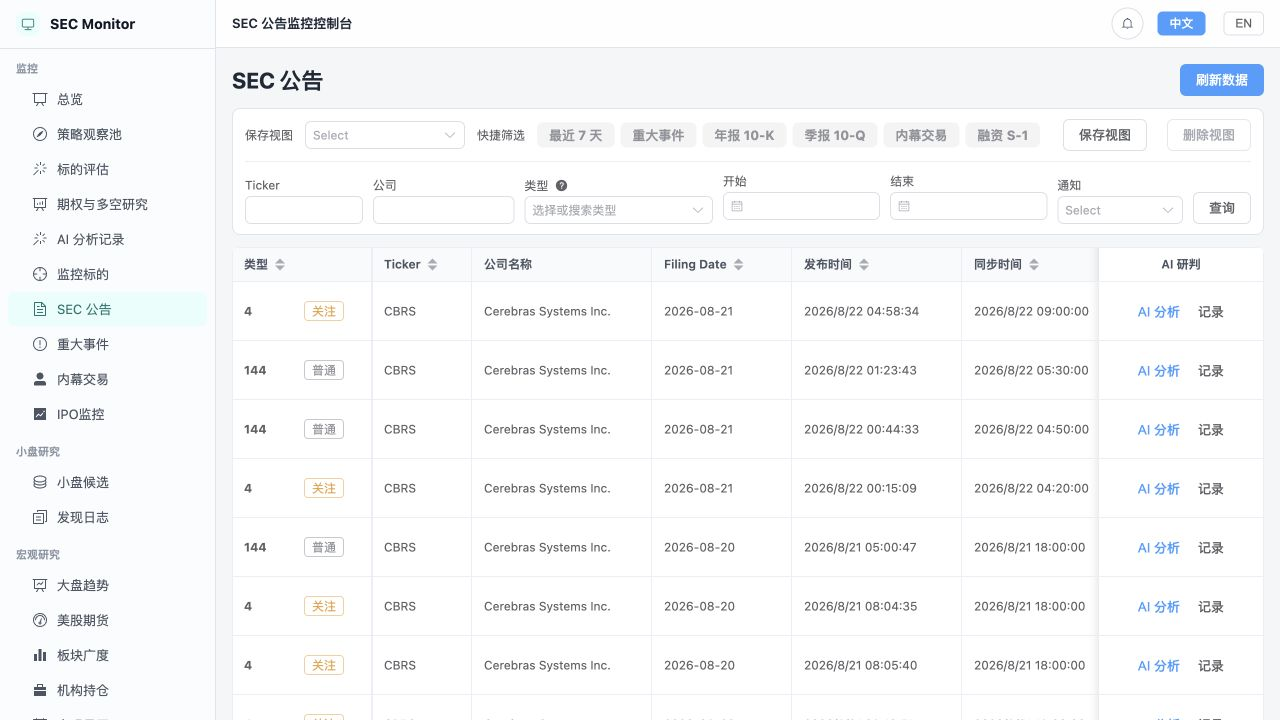
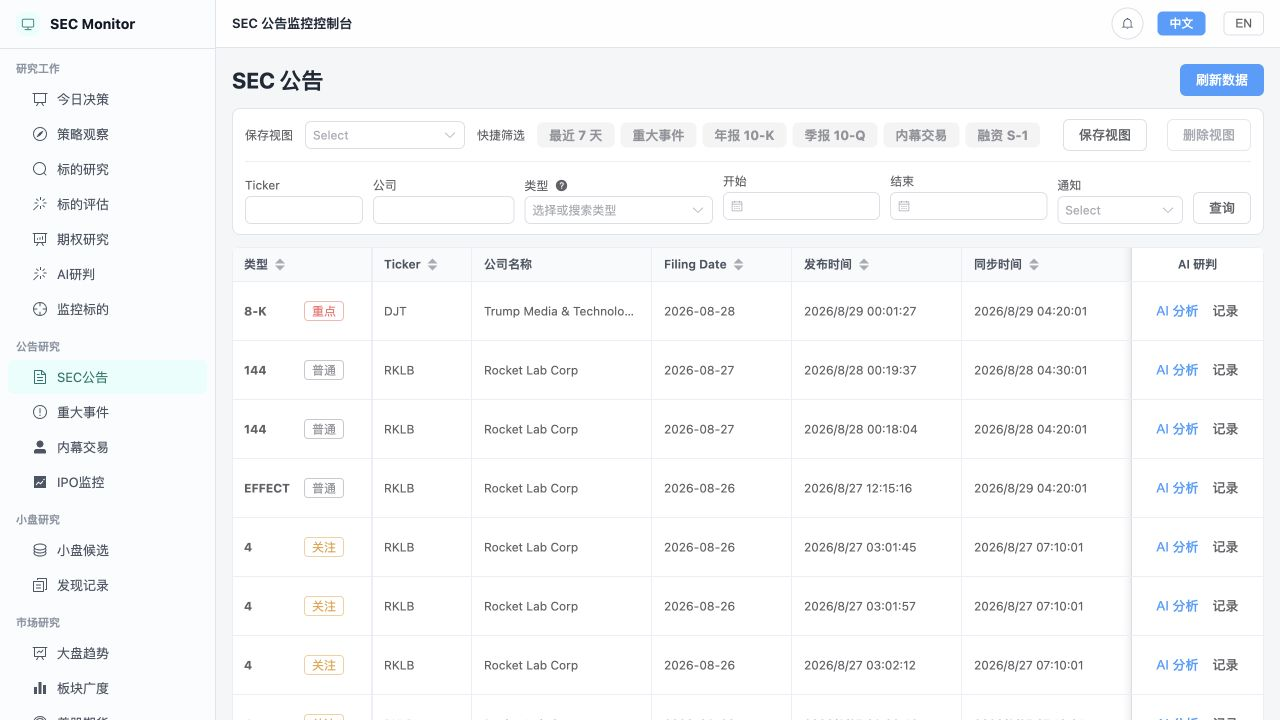
docs: refresh README and project screenshots

diff --git a/README.md b/README.md
@@ -40,11 +40,11 @@
 
 以下截图来自 Docker 本地环境中的真实数据，用于展示界面与研究流程；其中的证券、分数和状态不构成投资建议。
 
-### 小盘股候选：从数据健康到研究结论
+### 小盘候选：从数据健康到研究结论
 
 候选同步、筛选口径、证据状态、资本风险、技术信号与研究结论集中在同一页面；范围与规则可调整，历史价格缺口可按标的重试。
 
-![小盘股候选页面](docs/screenshots/small-cap-candidates.jpg)
+![小盘候选页面](docs/screenshots/small-cap-candidates.jpg)
 
 ### 策略观察池：把个股放回市场环境
 
@@ -54,18 +54,24 @@
 
 <table>
   <tr>
-    <td width="50%"><strong>SEC 公告检索与 AI 研判入口</strong></td>
-    <td width="50%"><strong>系统健康、备份与同步状态</strong></td>
+    <td width="50%"><strong>标的研究：跨模块证据汇总</strong></td>
+    <td width="50%"><strong>SEC 公告：检索与 AI 研判入口</strong></td>
   </tr>
   <tr>
+    <td><img src="docs/screenshots/ticker-workspace.jpg" alt="标的研究页面"></td>
     <td><img src="docs/screenshots/sec-filings.jpg" alt="SEC 公告页面"></td>
-    <td><img src="docs/screenshots/system-health.jpg" alt="系统健康页面"></td>
   </tr>
   <tr>
+    <td>在一个入口查看本地基本面、行情、SEC、内幕交易、机构持仓和历次 AI 研判，不因打开页面触发外部请求。</td>
     <td>按表单类型、日期、公司和通知状态检索；从本地记录进入原始公告或手动 AI 分析。</td>
-    <td>集中显示数据源、数据库、同步、通知和备份状态，让降级与待处理问题可见。</td>
   </tr>
 </table>
+
+### 系统健康：让降级与待处理问题可见
+
+集中显示数据源、数据库、同步、调度、通知和备份状态。页面直接暴露连续失败、覆盖不足与降级原因，方便从对应任务继续处理。
+
+![系统健康页面](docs/screenshots/system-health.jpg)
 
 ## 能做什么
 
@@ -77,6 +83,18 @@
 - **研究补充**：保存 Longbridge 分析师共识、估值、期权研究、机构持仓与公司资料；详情页仅读取本地快照，不会因浏览页面额外调用第三方接口。
 - **AI 研判**：支持多个 OpenAI 兼容提供商（含 DeepSeek）、可配置提示词模板、手动异步执行、结果/提示词/耗时审计和站内完成通知。不会自动调用第三方 AI。
 - **运营与通知**：统一管理站内消息、Telegram、去重、重试、死信、任务日志、系统健康、SQLite 备份和恢复演练。
+
+## 功能导航
+
+左侧菜单按研究路径而不是技术模块分组，名称保持简短，常用入口优先：
+
+| 分组 | 页面 | 用途 |
+| --- | --- | --- |
+| 研究工作 | 今日决策、策略观察、标的研究、标的评估、期权研究、AI研判、监控标的 | 从当日状态进入个股研究、复核与跟踪 |
+| 公告研究 | SEC公告、重大事件、内幕交易、IPO监控 | 查看 SEC 事实、资本事件与发行人生命周期 |
+| 小盘研究 | 小盘候选、发现记录 | 管理候选范围、证据补齐、评分与同步恢复 |
+| 市场研究 | 大盘趋势、板块广度、美股期货、机构持仓、宏观日历 | 补充市场、行业、机构与宏观背景 |
+| 运行管理 | 执行记录、任务调度、系统健康、通知记录、审计日志、系统配置 | 配置数据源与 Telegram，处理任务、告警、备份和审计 |
 
 ## 数据与边界
 
@@ -129,7 +147,8 @@ make docker-up
 1. 配置明确的 SEC User-Agent（例如 `SEC Monitor your-email@example.com`）。
 2. 配置 `CONFIG_ENCRYPTION_KEY`，用于加密 Telegram、Longbridge、价格源和 AI 密钥。
 3. 按需填写 Longbridge / Tiingo / Twelve Data / AI Provider 凭据。
-4. 添加监控标的，并在“调度任务”检查启用的任务与运行时间。
+4. 在“系统配置 → 通知配置”设置 Telegram 通道与事件边界。
+5. 添加监控标的，并在“任务调度”检查启用的任务与运行时间。
 
 `.env` 示例：
 
@@ -175,8 +194,8 @@ cd web && npm run build
 
 1. 先添加少量监控标的，完成一次 SEC 同步并核对结果。
 2. 配置行情源后运行小盘研究或标的评估；缺少的价格/基本面证据会保留为待补齐状态。
-3. 在“调度任务”按北京时间配置自动刷新；每项任务独立运行，不会因为某项失败阻塞其他数据源。
-4. 在“系统健康”“同步历史”“通知日志”处理失败、重试与备份容量告警；避免频繁手动重跑额度敏感的行情或 AI 任务。
+3. 在“任务调度”按北京时间配置自动刷新；每项任务独立运行，不会因为某项失败阻塞其他数据源。
+4. 在“系统健康”“执行记录”“通知记录”处理失败、重试与备份容量告警；避免频繁手动重跑额度敏感的行情或 AI 任务。
 5. AI 仅作为研究辅助：先在详情页选择模型和模板手动执行，再结合原始 SEC 文件与本地证据判断。
 
 ## 运行与数据存储

diff --git a/README.en.md b/README.en.md
@@ -29,6 +29,43 @@ investment advice and does not place trades.
 > This project contains AI-assisted code. Review security, compliance and data
 > quality before using it with real capital or in a production environment.
 
+## Interface preview
+
+The screenshots below come from the current Docker build and local snapshots.
+Displayed securities, scores and states are examples, not investment advice.
+
+### Small-cap candidates and strategy context
+
+The candidate workspace keeps screening rules, evidence quality, capital risk,
+technical signals and research conclusions together. The strategy pool places
+those candidates back into index, sector and macro context.
+
+![Small-cap candidates](docs/screenshots/small-cap-candidates.jpg)
+
+![Strategy pool](docs/screenshots/strategy-pool.jpg)
+
+<table>
+  <tr>
+    <td width="50%"><strong>Ticker research workspace</strong></td>
+    <td width="50%"><strong>SEC filing research</strong></td>
+  </tr>
+  <tr>
+    <td><img src="docs/screenshots/ticker-workspace.jpg" alt="Ticker research workspace"></td>
+    <td><img src="docs/screenshots/sec-filings.jpg" alt="SEC filings"></td>
+  </tr>
+  <tr>
+    <td>Combines locally stored fundamentals, market data, filings, insider facts, holdings and AI research without page-load provider calls.</td>
+    <td>Filters local filings and links each record to original SEC evidence or an explicitly triggered AI review.</td>
+  </tr>
+</table>
+
+### Operations health
+
+Provider, database, scheduler, notification, synchronization and backup issues
+remain visible instead of being replaced with optimistic defaults.
+
+![System health](docs/screenshots/system-health.jpg)
+
 ## Capabilities
 
 - **Watch targets and SEC filings**: manage stocks/ETFs, incrementally ingest
@@ -48,6 +85,13 @@ investment advice and does not place trades.
   notifications. The application never calls third-party AI automatically.
 - **Operations**: in-app and Telegram notifications, deduplication, retries,
   dead letters, task logs, health checks, SQLite backups and restore drills.
+
+## Navigation
+
+The sidebar follows the research workflow: **Research**, **Filings**, **Small
+Caps**, **Markets**, and **Operations**. Telegram connection settings and
+per-event delivery controls now live together under **System Settings →
+Notifications**; the former standalone Telegram route redirects there.
 
 ## Data sources and boundaries
 
@@ -84,7 +128,8 @@ On first use, configure the following in **System Settings**:
 2. `CONFIG_ENCRYPTION_KEY`, used to encrypt Telegram, Longbridge, market-data
    and AI credentials.
 3. The providers you intend to use.
-4. Watch targets and scheduler settings.
+4. Telegram connection and event delivery rules under **System Settings → Notifications**.
+5. Watch targets and scheduler settings.
 
 Example `.env`:
 
